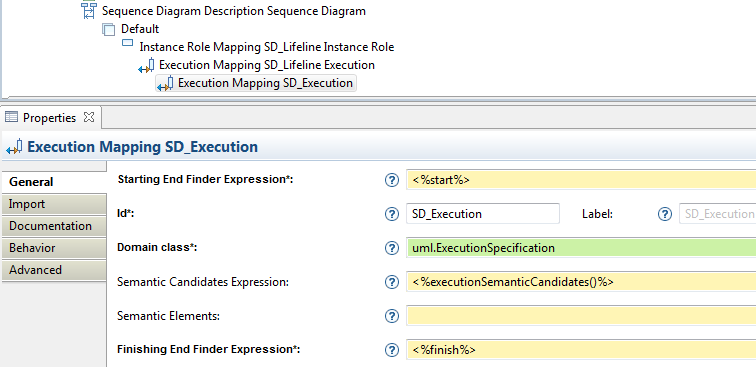
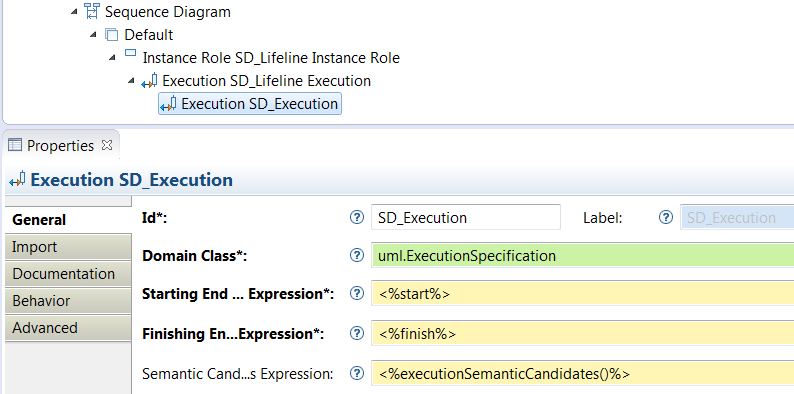
[459993] Update documentation about Translatable Message
Addition of documentation about Translatable Message in the specifier
documents. Screenshots displaying properties view of VSM elements that
where outdated (not displaying the blue background) have been updated.

Bug: 459993

diff --git a/plugins/org.eclipse.sirius.doc/doc/specifier/general/Specifying_Viewpoints.html b/plugins/org.eclipse.sirius.doc/doc/specifier/general/Specifying_Viewpoints.html
@@ -37,6 +37,9 @@
 								<a href="#interpreted_expressions">Interpreted Expressions</a>
 							</li>
 							<li>
+								<a href="#translatable_messages">Translatable Messages</a>
+							</li>
+							<li>
 								<a href="#model_operations">Model Operations</a>
 							</li>
 							<li>
@@ -303,6 +306,92 @@
 		<p>Also, by clicking on the button next to the text field, you can open a dialog with a bigger text area (providing auto-completion too) to type your expression more comfortably. Note that you can add line feeds or tabulations if you want, since they are removed when clicking on the &#8220;OK&#8221; button.</p>
 		<p>
 			<img border="0" src="images/textAreaDialog.png"/>
+		</p>
+		<h3 id="translatable_messages">Translatable Messages</h3>
+		<p>Many 
+			<em>VSM</em> elements provide text fields that will be displayed when end-users reference the 
+			<em>VSM</em> in a modeling project (Viewpoint name, tools...). Starting from Sirius 4.0, the value shown to the end users can be localized according to the user&#8217;s language.  Fields which support this feature are called 
+			<em>Translatable</em> 
+			<em>Messages</em> and can be easily identified by their blue background in the 
+			<em>Properties</em> sheet of an element. 
+		</p>
+		<p>
+			<img border="0" src="images/common_attributes.png"/>
+		</p>
+		<p>Note that on the previous screenshot, the text in the label field is grayish because no label have been set and the ID is used instead.</p>
+		<p>This feature is available for almost every 
+			<em>VSM</em> elements defined in the VSMs which are visible to the end-user of the modeler, like viewpoint and tools names, can now be internationalized, but not to interpreted expressions. Note also that this feature is only available to modelers which are deployed as proper Eclipse plug-ins; it will not work for plain VSMs defined directly in the runtime workspace.
+		</p>
+		<p>To make use of this feature in your modeler, simply replace the names with a 
+			<em>translation key</em> reference of the form 
+			<code>%myUniqueKey</code>  in the VSM, and define the value in the 
+			<em>Viewpoint Specification Project</em>'s 
+			<code>plugin.properties</code> (for the default value), or 
+			<code>plugin_XX.properties</code> for locale 
+			<code>XX</code>. Note that the key chosen must be globally unique in the context of a whole 
+			<em>Viewpoint Specification Project</em>.
+		</p>
+		<p>
+			<img border="0" src="images/translatable_message1.png"/>
+		</p>
+		<p>The key must be added to the 
+			<code>plugin.properties</code> file for each language with the translated message. The default properties file is named 
+			<code>plugin.properties</code> and the localized version are identified with a postfixed with the corresponding language code (e.g. for US english 
+			<code>plugin_en_US.properties</code>, for french 
+			<code>plugin_fr.properties</code>).  The underlying mechanism is the same as for Eclipse/OSGi plug-ins, so translations can even be contributed by physically separate plug-in fragments.
+		</p>
+		<p>
+			<img border="0" src="images/translatable_message2.png"/>
+		</p>
+		<p>An Eclipse with localization in english will get the localized messages from 
+			<code>plugin_en.properties</code>, while an Eclipse with localization in french will get the localized messages from 
+			<code>plugin_fr.properties</code>.
+		</p>
+		<table class="table table-striped table-condensed">
+			<tr>
+				<td>
+					<img border="0" src="images/translatable_message4.png"/>
+				</td>
+				<td>
+					<img border="0" src="images/translatable_message3.png"/>
+				</td>
+			</tr>
+			<tr>
+				<th>English locale</th>
+				<th>French locale (with corresponding translation in 
+					<code>plugin_fr.properties</code> 
+				</th>
+			</tr>
+		</table>
+		<p>Note that an Eclipse with localization in a language that has no dedicated properties file, will get the localized message from the default 
+			<code>plugin.properties</code>.
+		</p>
+		<p>If the ID is not found in the localized properties file or if there is no properties file, the ID will be directly displayed.</p>
+		<p>
+			<img border="0" src="images/translatable_message5.png"/>
+		</p>
+		<p>As the internationalization is optional, if a 
+			<em>Translatable</em> 
+			<em>Message</em> does not start with a 
+			<em>%</em> it will be directly displayed without consideration of the localization.
+		</p>
+		<p>
+			<img border="0" src="images/translatable_message6.png"/>
+		</p>
+		<p>It is still possible to display a non localized label starting with a 
+			<em>%</em> however the character needs to be doubled.
+		</p>
+		<p>
+			<img border="0" src="images/translatable_message8.png"/>
+			<br/>
+			<img border="0" src="images/translatable_message9.png"/>
+		</p>
+		<p>
+			<em>Warning</em>: 
+			<em>Translatable</em> 
+			<em>Messages</em> concern only labels set in the 
+			<em>VSM</em> that are displayed to the end-users. Sirius is prepared for internationalization but is only available in English. Therefore, the 
+			<em>VSM</em> labels can be available in another language but the labels coming from Sirius will stay in English. Moreover, some labels come from some other frameworks (such as EMF or GMF) and if the localization feature (if existing) is not installed, then the labels will stay in English.  
 		</p>
 		<h3 id="model_operations">Model Operations</h3>
 		<p>Whenever a 

diff --git a/plugins/org.eclipse.sirius.doc/doc/specifier/diagrams/Diagrams.html b/plugins/org.eclipse.sirius.doc/doc/specifier/diagrams/Diagrams.html
@@ -196,6 +196,13 @@
 			<a href="#filters">filters</a> and 
 			<a href="#layout">layout configuration</a> information.
 		</p>
+		<p>Note that the 
+			<em>Window Title</em> label and 
+			<em>Message</em> label are 
+			<a href="../general/Specifying_Viewpoints.html#translatable_messages">
+				<em>Translatable Messages</em>
+			</a> and can therefore be localized.
+		</p>
 		<h3 id="layout">Layout Configuration</h3>
 		<p>Sirius provides a default algorithm to perform an automatic layout of all the graphical elements on a diagram (excluding 
 			<a href="../../user/diagrams/Diagrams.html#diagram_element_pinning">pinned elements</a> ). If the default algorithm does not fit your needs, you can configure some parameters or request for alternate algorithms (currently only one) directly inside the VSM.
@@ -1233,6 +1240,11 @@
 			<em>Group</em> defined elsewhere. It can be used for example to merge tools defined in an additional layer into a group of tools defined in the default layer. You must select the existing 
 			<em>Group</em> to extend, and any tool declared in a group extension will be added in the targeted group by the &#8216;group&#8217; attribute.
 		</p>
+		<p>Note that the Tool Section label and Tool label are 
+			<a href="../general/Specifying_Viewpoints.html#translatable_messages">
+				<em>Translatable Messages</em>
+			</a> and can therefore be localized.
+		</p>
 		<p>
 			<i>WARNING</i> : It was possible to define a ToolSection directly under a DiagramDescription, outside a layer. Defining tool section outside a layer is discouraged, that&#8217;s why this action has been deleted. The tool sections created before are still present but you should move it into the default layer since it is likely to be deleted in the future.
 		</p>
@@ -1348,6 +1360,13 @@
 		<p>
 			<img border="0" src="images/styles/Selection_Tool.png"/>
 		</p>
+		<p>Note that the 
+			<em>Window Title</em> label and 
+			<em>Message</em> label are 
+			<a href="../general/Specifying_Viewpoints.html#translatable_messages">
+				<em>Translatable Messages</em>
+			</a> and can therefore be localized.
+		</p>
 		<h4 id="pane_based_selection_wizard">Pane-Based Selection Wizard</h4>
 		<p>The 
 			<em>Pane-Based Selection Wizard</em> is very similar to the 
@@ -1362,6 +1381,15 @@
 		</p>
 		<p>
 			<img border="0" src="images/styles/Pane-Based_Selection_Tool.png"/>
+		</p>
+		<p>Note that the 
+			<em>Window Title</em> label, 
+			<em>Message</em> label, 
+			<em>Choice of Values Message</em> label and 
+			<em>Selected Values Message</em> labels are 
+			<a href="../general/Specifying_Viewpoints.html#translatable_messages">
+				<em>Translatable Messages</em>
+			</a> and can therefore be localized.
 		</p>
 		<h4 id="representation_creation">Representation Creation</h4>
 		<p>Each dialect supported by Sirius defines a tool which can be used to create a new representation using this dialect. They are (using the default supported dialects): 

diff --git a/plugins/org.eclipse.sirius.doc/doc/Release_Notes.html b/plugins/org.eclipse.sirius.doc/doc/Release_Notes.html
@@ -105,6 +105,14 @@
 		</ul>
 		<h3 id="SpecifierVisibleChanges">Specifier-Visible Changes</h3>
 		<ul>
+			<li><span class="label label-success">Added</span> All static strings defined in the VSMs which are visible to the end-user of the modeler, like viewpoint and tools names, can now be internationalized. Simply replace the name with a translation key reference of the form 
+				<code>%myUniqueKey</code>  in the VSM, and define the value in the 
+				<em>Viewpoint Specification Project</em>'s 
+				<code>plugin.properties</code> (for the default value), or 
+				<code>plugin_XX.properties</code> for locale 
+				<code>XX</code>. The underlying mechanism is the same as for Eclipse/OSGi plug-ins, so translations can even be contributed by physically separate plug-in fragments. See 
+				<a href="specifier/general/Specifying_Viewpoints.html#translatable_messages">the corresponding section</a> in the documentation for more details.
+			</li>
 			<li><span class="label label-success">Added</span> It is possible to create Typed Variable under Variable Filter.</li>
 			<li><span class="label label-info">Added</span> The specifier can now restrict the border node authorized sides. This new option is available in the advanced tab of the border node style. See the specifier documentation for more details.</li>
 			<li><span class="label label-info">Modified</span> The 
@@ -227,8 +235,9 @@
 				<code>org.eclipse.sirius.common.acceleo.aql.business.internal.AQLSiriusInterpreter</code> which is an implementation providing this type inference.
 			</li>
 			<li><span class="label label-success">Added</span> A helper 
-				<code>org.eclipse.sirius.common.tools.api.util.MessageTranslator</code> providing a 
-				<code>getMessage(String)</code> service dedicated into processing a translatable message to return the translation in the active language when available. This service returns the String without modification if not translatable or no translation is available.
+				<code>org.eclipse.sirius.common.tools.api.util.MessageTranslator</code> providing 
+				<code>getMessage(EObject, String)</code> and 
+				<code>getMessage(Bundle, String)</code> service dedicated into processing a translatable message to return the translation in the active language when available. This service returns the String without modification if not translatable or no translation is available.
 			</li>
 			<li><span class="label label-success">Added</span> The &#8220;INFO&#8221; severity has been added to 
 				<code>org.eclipse.sirius.common.tools.api.interpreter.IInterpreterStatus</code> to reflect all kind of language validation severity (of AQL for example).
